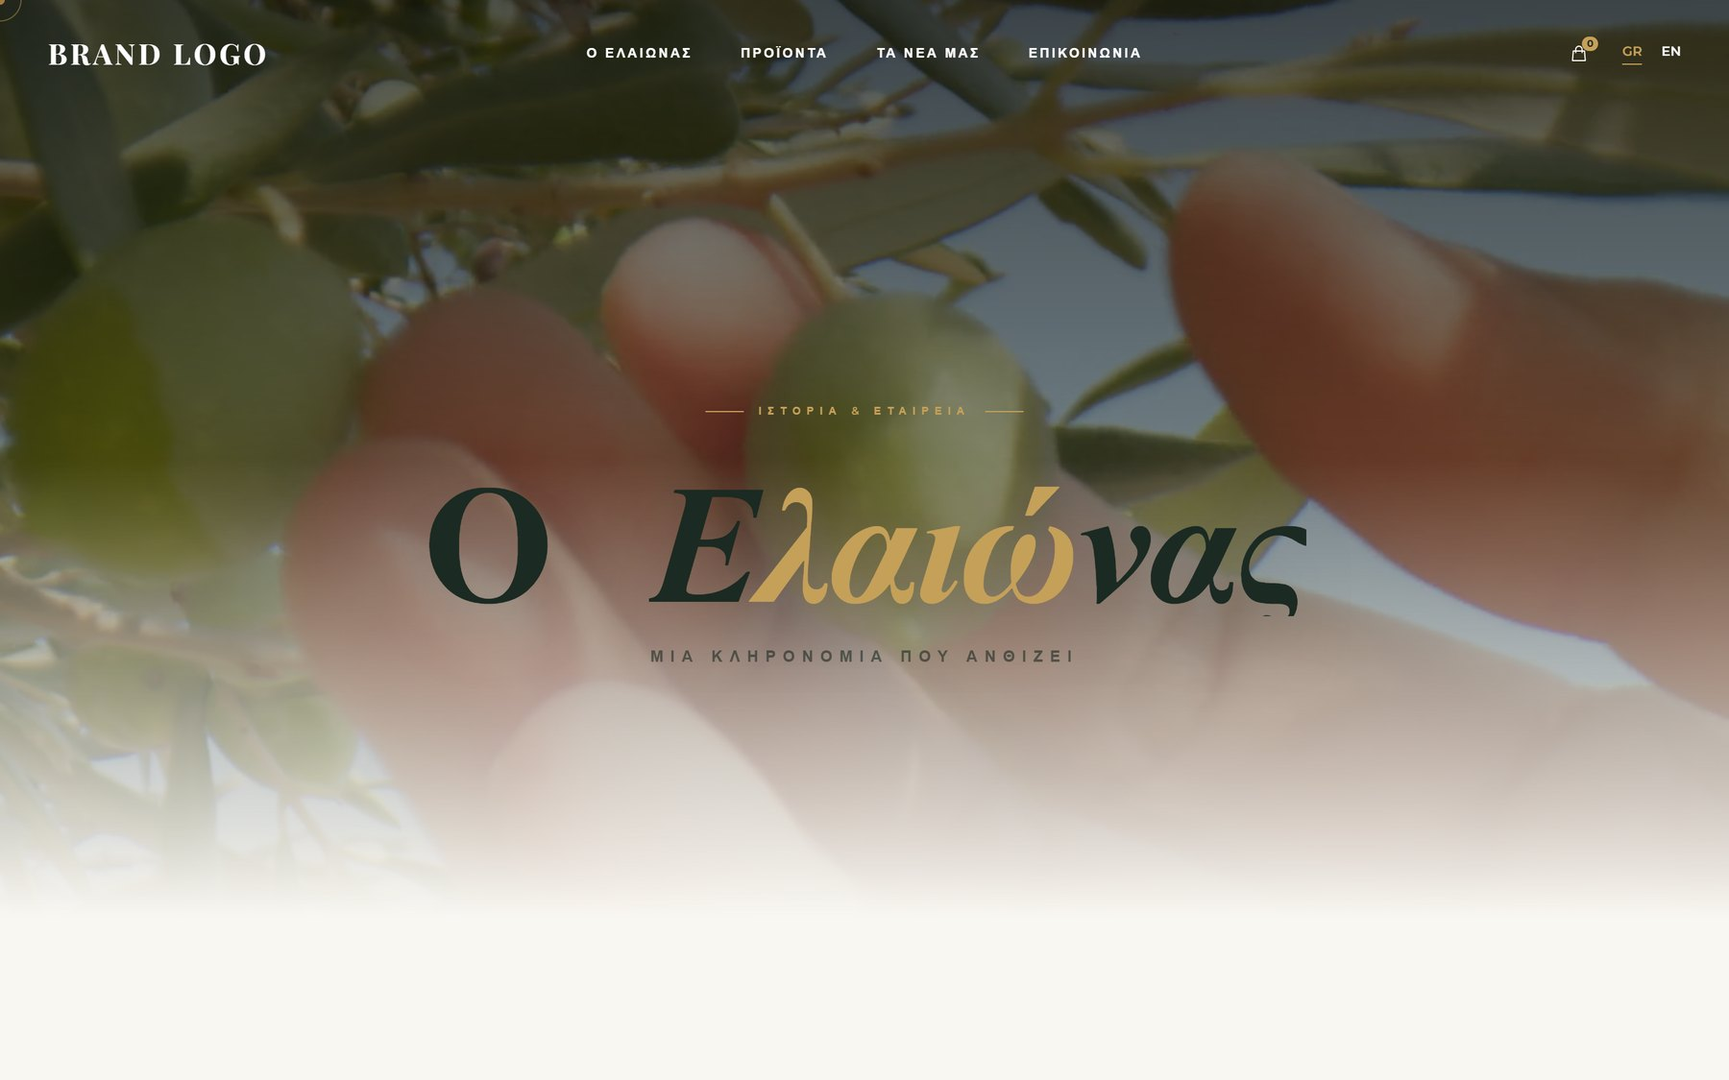
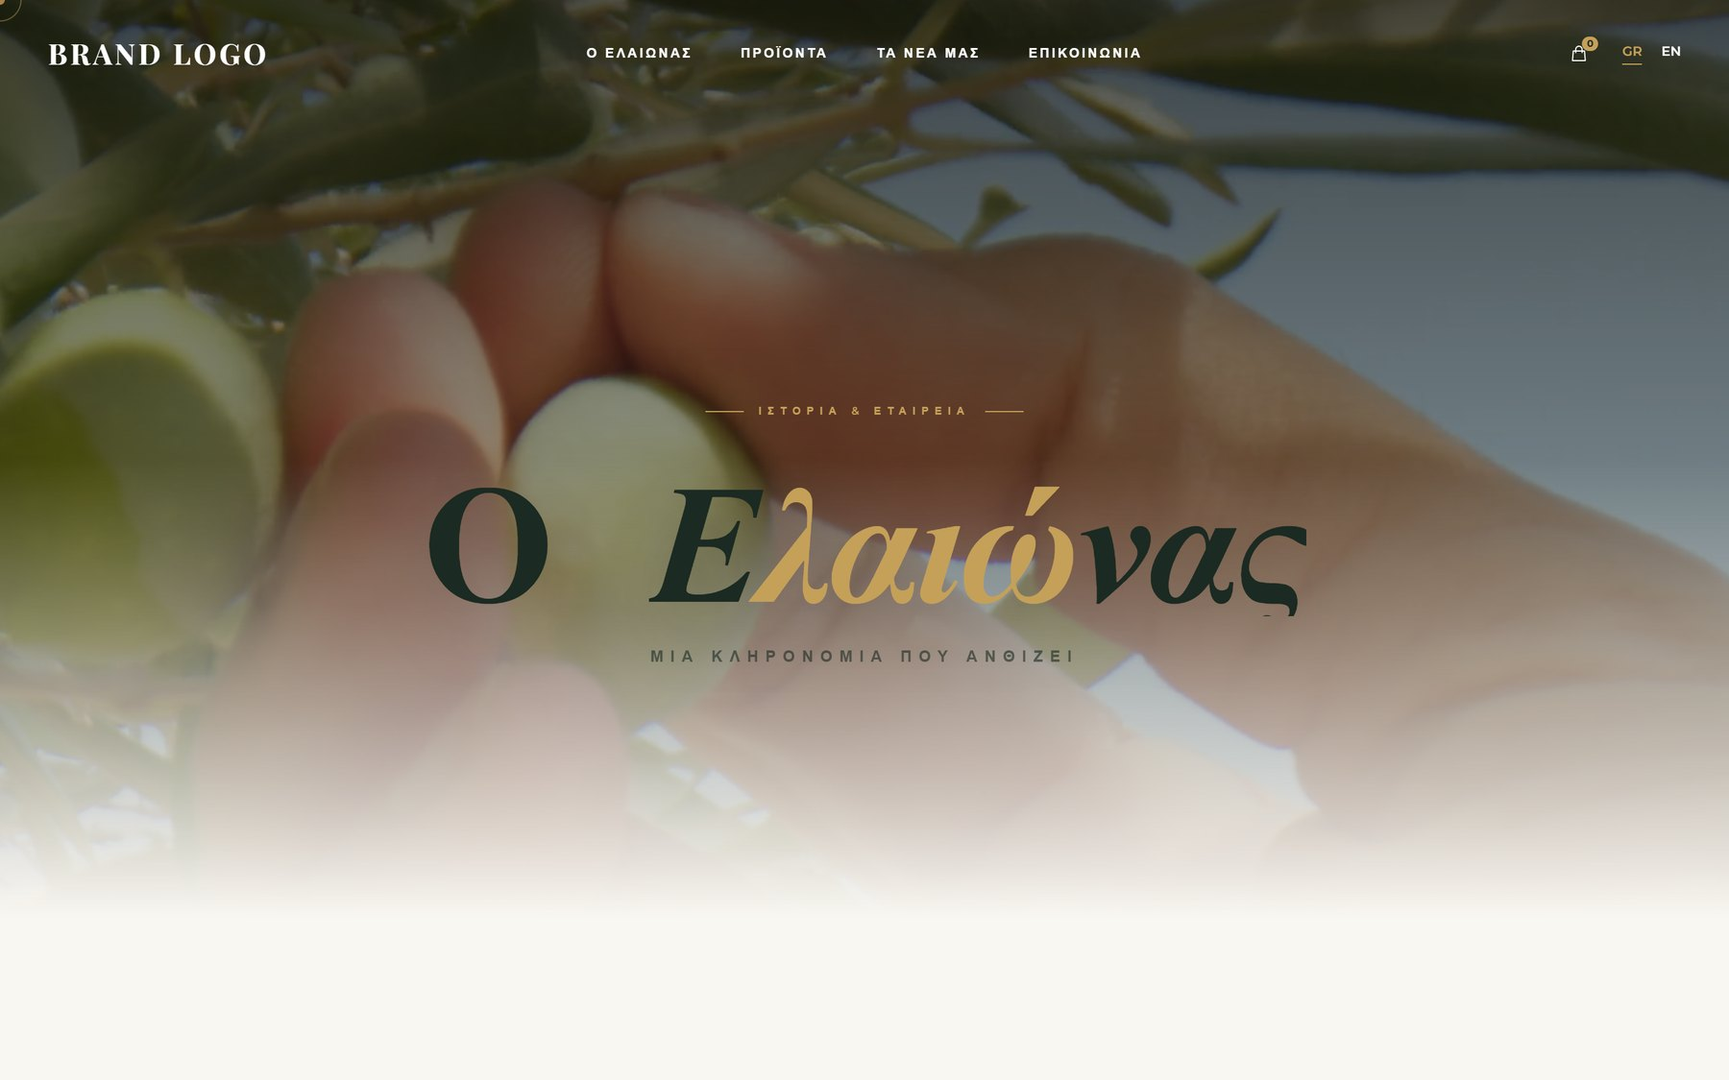
feat: όλες οι οθόνες κάθε project, και carousel με κλικ
Οι εικόνες ήταν αποσπασματικές — ένα παράθυρο ανά project, και σε δύο σημεία
κομμένα τμήματα. Τώρα κάθε project δείχνει ολόκληρες οθόνες:

- Expenses Predictor: και τα 5 παράθυρα
- Nutrition Tracker: και τα 6
- Oil Site: και οι 5 σελίδες
- ETL: ολόκληρος ο καμβάς της αναφοράς Power BI αντί για κομμένο γράφημα
- n8n: ο πραγματικός καμβάς του workflow ως εξώφυλλο

Νέο `components/carousel.tsx`, στην κάρτα κάθε project και στην πρώτη εικόνα
της σελίδας του. Κλικ στην εικόνα → επόμενη, με βέλη, κουκκίδες και μετρητή.
Κουτί 16:9 με object-contain ώστε να μην κόβεται ούτε να πηδάει τίποτα.
Στην κάρτα η εικόνα βγήκε από τον σύνδεσμο, αλλιώς ένα κλικ θα έκανε δύο
πράγματα· ο τίτλος παραμένει ο σύνδεσμος προς το project.

D9: στο Expenses Predictor καλύφθηκαν με CSS πριν τη λήψη οι περιγραφές, τα
ποσά, η κατηγορία τυχερών παιγνίων, η φωτογραφία προφίλ και η μπάρα
σελιδοδεικτών μέσα στο tutorial video. Στο Oil Site θολώνουν οι φιάλες, που
κουβαλούν το σήμα του πελάτη.

diff --git a/components/carousel.tsx b/components/carousel.tsx
@@ -1,0 +1,172 @@
+"use client";
+
+import { useCallback, useEffect, useRef, useState } from "react";
+import Image from "next/image";
+
+export type CarouselImage = { src: string; caption?: string };
+
+/**
+ * Εναλλαγή εικόνων με κλικ πάνω στην ίδια την εικόνα.
+ *
+ * Γιατί κλικ και όχι αυτόματη περιστροφή: η εικόνα ενός project δεν είναι
+ * διαφήμιση που πρέπει να τραβήξει το μάτι — είναι στοιχείο. Ο επισκέπτης
+ * προχωράει όταν έχει δει αρκετά, όχι όταν λήξει ένα χρονόμετρο. Και μια
+ * κινούμενη εικόνα δίπλα σε κείμενο απλώς εμποδίζει το διάβασμα.
+ *
+ * Με μία μόνο εικόνα δεν εμφανίζεται κανένα χειριστήριο: τα κουμπιά υπάρχουν
+ * μόνο όταν υπάρχει κάτι να δείξουν.
+ */
+export function Carousel({
+  images,
+  priority = false,
+  sizes,
+  showCaption = false,
+  label,
+}: {
+  images: CarouselImage[];
+  priority?: boolean;
+  sizes: string;
+  /** Δείχνει τη λεζάντα κάτω από την εικόνα — στη σελίδα του project, όχι στην κάρτα. */
+  showCaption?: boolean;
+  /** Προσβάσιμο όνομα της ομάδας, π.χ. ο τίτλος του project. */
+  label: string;
+}) {
+  const [index, setIndex] = useState(0);
+  const count = images.length;
+  const region = useRef<HTMLDivElement>(null);
+
+  const go = useCallback(
+    (delta: number) => {
+      setIndex((current) => (current + delta + count) % count);
+    },
+    [count],
+  );
+
+  // Τα βέλη του πληκτρολογίου δουλεύουν μόνο όσο η εστίαση είναι μέσα στο
+  // carousel — αλλιώς θα έκλεβαν το ← → από την υπόλοιπη σελίδα.
+  useEffect(() => {
+    const node = region.current;
+    if (!node || count < 2) return;
+
+    const onKey = (event: KeyboardEvent) => {
+      if (event.key === "ArrowLeft") {
+        event.preventDefault();
+        go(-1);
+      } else if (event.key === "ArrowRight") {
+        event.preventDefault();
+        go(1);
+      }
+    };
+
+    node.addEventListener("keydown", onKey);
+    return () => node.removeEventListener("keydown", onKey);
+  }, [count, go]);
+
+  if (count === 0) return null;
+
+  const current = images[index];
+  const single = count < 2;
+
+  return (
+    <figure className="space-y-3">
+      <div
+        ref={region}
+        role="group"
+        aria-roledescription="carousel"
+        aria-label={label}
+        className="group/carousel relative aspect-[16/9] overflow-hidden rounded-lg border border-[var(--line)] bg-[var(--surface)]"
+      >
+        {/*
+          Σταθερό κουτί 16:9 και `object-contain`: οι οθόνες που τραβήχτηκαν δεν
+          έχουν όλες την ίδια αναλογία — ένα φύλλο Excel είναι σχεδόν τετράγωνο,
+          ένα dashboard πλατύ. Με `cover` θα κόβαμε το μισό· με σταθερό ύψος δεν
+          πηδάει η σελίδα σε κάθε κλικ. Ό,τι περισσεύει γίνεται κενό, όχι ψαλίδι.
+        */}
+        {images.map((image, i) => (
+          <Image
+            key={image.src}
+            src={image.src}
+            alt={i === index ? (image.caption ?? "") : ""}
+            width={1200}
+            height={675}
+            priority={priority && i === 0}
+            sizes={sizes}
+            aria-hidden={i === index ? undefined : true}
+            className="absolute inset-0 h-full w-full object-contain transition-opacity duration-300"
+            style={{ opacity: i === index ? 1 : 0 }}
+          />
+        ))}
+
+        {!single && (
+          <>
+            {/* Το κλικ πάνω στην εικόνα πάει στην επόμενη — το προφανές. */}
+            <button
+              type="button"
+              onClick={() => go(1)}
+              className="absolute inset-0 cursor-pointer"
+            >
+              <span className="sr-only">
+                {label} — {index + 1} / {count}
+              </span>
+            </button>
+
+            <Arrow side="left" onClick={() => go(-1)} label={label} />
+            <Arrow side="right" onClick={() => go(1)} label={label} />
+
+            <div className="pointer-events-none absolute inset-x-0 bottom-0 flex items-center justify-between p-3">
+              <span className="flex gap-1.5">
+                {images.map((image, i) => (
+                  <span
+                    key={image.src}
+                    aria-hidden="true"
+                    className={`h-1.5 w-1.5 rounded-full transition-colors ${
+                      i === index ? "bg-white" : "bg-white/35"
+                    }`}
+                  />
+                ))}
+              </span>
+              <span className="rounded bg-black/45 px-1.5 py-0.5 font-mono text-[10px] text-white/80 tabular-nums">
+                {index + 1}/{count}
+              </span>
+            </div>
+          </>
+        )}
+      </div>
+
+      {showCaption && current.caption && (
+        <figcaption
+          aria-live="polite"
+          className="text-sm text-[var(--muted)]"
+        >
+          {current.caption}
+        </figcaption>
+      )}
+    </figure>
+  );
+}
+
+function Arrow({
+  side,
+  onClick,
+  label,
+}: {
+  side: "left" | "right";
+  onClick: () => void;
+  label: string;
+}) {
+  return (
+    <button
+      type="button"
+      onClick={onClick}
+      aria-label={`${label}: ${side === "left" ? "←" : "→"}`}
+      // Σε οθόνη αφής δεν υπάρχει hover: εκεί τα βέλη μένουν μόνιμα ορατά.
+      className={`absolute top-1/2 -translate-y-1/2 rounded-full bg-black/45 p-2 text-white opacity-100 transition-opacity sm:opacity-0 sm:group-hover/carousel:opacity-100 focus-visible:opacity-100 ${
+        side === "left" ? "left-2" : "right-2"
+      }`}
+    >
+      <span aria-hidden="true" className="block h-4 w-4 leading-4">
+        {side === "left" ? "‹" : "›"}
+      </span>
+    </button>
+  );
+}

diff --git a/components/project-explorer.tsx b/components/project-explorer.tsx
@@ -1,7 +1,7 @@
 "use client";
 
 import { useEffect, useMemo, useRef, useState } from "react";
-import Image from "next/image";
+import { Carousel } from "@/components/carousel";
 import Link from "next/link";
 import { usePathname, useRouter, useSearchParams } from "next/navigation";
 import {
@@ -191,37 +191,40 @@ export function ProjectExplorer({
       ) : (
         <ul className="space-y-16">
           {visible.map((project) => (
-            <li key={project.slug}>
-              <Link
-                href={`/${locale}/projects/${project.slug}`}
-                className="group grid gap-6 sm:grid-cols-[1fr_1.2fr] sm:items-center"
-              >
-                <div className="overflow-hidden rounded-lg border border-[var(--line)] bg-[var(--surface)]">
-                  <Image
-                    src={project.cover}
-                    alt=""
-                    width={1200}
-                    height={675}
-                    className="h-auto w-full transition-transform duration-500 group-hover:scale-[1.02]"
-                    sizes="(max-width: 40rem) 100vw, 24rem"
-                  />
-                </div>
+            <li
+              key={project.slug}
+              className="grid gap-6 sm:grid-cols-[1fr_1.2fr] sm:items-center"
+            >
+              {/*
+                Η εικόνα δεν είναι πια μέσα στον σύνδεσμο: το κλικ πάνω της
+                αλλάζει εικόνα. Στο project πάει ο τίτλος, που είναι και ο
+                προορισμός που περιμένει ο screen reader.
+              */}
+              <Carousel
+                images={project.images}
+                sizes="(max-width: 40rem) 100vw, 24rem"
+                label={project.title}
+              />
 
-                <div className="space-y-3">
-                  <div className="flex flex-wrap items-baseline gap-x-4 gap-y-1">
-                    <h2 className="text-3xl group-hover:underline group-hover:underline-offset-4">
+              <div className="space-y-3">
+                <div className="flex flex-wrap items-baseline gap-x-4 gap-y-1">
+                  <h2 className="text-3xl">
+                    <Link
+                      href={`/${locale}/projects/${project.slug}`}
+                      className="underline-offset-4 hover:underline"
+                    >
                       {project.title}
-                    </h2>
-                    <span className="font-mono text-xs text-[var(--faint)]">
-                      {project.year} · {labels.status[project.status]}
-                    </span>
-                  </div>
-                  <p className="text-[var(--muted)]">{project.summary}</p>
-                  <p className="font-mono text-xs text-[var(--faint)]">
-                    {project.stack.join("  ·  ")}
-                  </p>
+                    </Link>
+                  </h2>
+                  <span className="font-mono text-xs text-[var(--faint)]">
+                    {project.year} · {labels.status[project.status]}
+                  </span>
                 </div>
-              </Link>
+                <p className="text-[var(--muted)]">{project.summary}</p>
+                <p className="font-mono text-xs text-[var(--faint)]">
+                  {project.stack.join("  ·  ")}
+                </p>
+              </div>
             </li>
           ))}
         </ul>

diff --git a/app/[locale]/projects/[slug]/page.tsx b/app/[locale]/projects/[slug]/page.tsx
@@ -1,5 +1,4 @@
 import type { Metadata } from "next";
-import Image from "next/image";
 import Link from "next/link";
 import { notFound } from "next/navigation";
 import { MDXRemote } from "next-mdx-remote/rsc";
@@ -11,6 +10,7 @@ import {
 } from "@/lib/content/projects";
 import { StackDiagram } from "@/components/stack-diagram";
 import { Gallery } from "@/components/gallery";
+import { Carousel } from "@/components/carousel";
 
 type Params = Promise<{ locale: string; slug: string }>;
 
@@ -107,17 +107,21 @@ export default async function ProjectPage({ params }: { params: Params }) {
         </p>
       )}
 
-      <div className="overflow-hidden rounded-lg border border-[var(--line)] bg-[var(--surface)]">
-        <Image
-          src={project.cover}
-          alt=""
-          width={1200}
-          height={675}
-          priority
-          className="h-auto w-full"
-          sizes="(max-width: 64rem) 100vw, 64rem"
-        />
-      </div>
+      {/*
+        Το εξώφυλλο είναι η αρχή ενός carousel με όλες τις οθόνες του project:
+        ο επισκέπτης βλέπει τι είναι το πράγμα χωρίς να κατέβει μέχρι κάτω.
+        Οι ίδιες εικόνες επανέρχονται πιο κάτω σε πλήρες μέγεθος, με λεζάντα.
+      */}
+      <Carousel
+        images={[
+          { src: project.cover, caption: project.summary },
+          ...project.gallery,
+        ]}
+        priority
+        showCaption
+        sizes="(max-width: 64rem) 100vw, 64rem"
+        label={project.title}
+      />
 
       {/* Πρόβλημα → στόχος → λύση → αποτέλεσμα: η αφήγηση με μια ματιά (D15). */}
       <section className="grid gap-x-10 gap-y-8 sm:grid-cols-2 lg:grid-cols-4">

diff --git a/lib/content/filter.ts b/lib/content/filter.ts
@@ -17,6 +17,11 @@ export type ProjectCard = {
   stack: string[];
   role: string;
   cover: string;
+  /**
+   * Όλες οι εικόνες του project — εξώφυλλο πρώτο. Η κάρτα τις εναλλάσσει με
+   * κλικ, οπότε χρειάζεται τη λίστα και όχι μόνο την πρώτη.
+   */
+  images: { src: string; caption?: string }[];
 };
 
 export type Filters = {

diff --git a/app/[locale]/projects/page.tsx b/app/[locale]/projects/page.tsx
@@ -48,6 +48,10 @@ export default async function ProjectsPage({
     stack: p.stack,
     role: p.role,
     cover: p.cover,
+    images: [
+      { src: p.cover },
+      ...p.gallery.map((g) => ({ src: g.src, caption: g.caption })),
+    ],
   }));
 
   return (

diff --git a/docs/ROADMAP.md b/docs/ROADMAP.md
@@ -267,6 +267,44 @@
 φαρμακείο, ποσά και υπόλοιπα. Ο χρήστης ενημερώθηκε και **αποφάσισε να μείνει ως
 έχει** (21 Σεπ 2026), οπότε τα screenshots δείχνουν πραγματικά νούμερα.
 
+## Φάση 6δ — Όλες οι οθόνες, και carousel ✅
+Κάθε project δείχνει πλέον ολόκληρες οθόνες, όχι κομμένα τμήματα, και οι εικόνες
+εναλλάσσονται με κλικ.
+
+- [x] **Expenses Predictor** — και τα 5 παράθυρα (Home, Data, Balance, Stats, Forecast)
+- [x] **Nutrition Tracker** — και τα 6 (Αρχική, Τροφές, Συνταγές, Ημερολόγιο, Στατιστικά, Πλάνο)
+- [x] **Oil Site** — και οι 5 σελίδες, με τις φιάλες θολωμένες (D9 — κουβαλούν το wordmark)
+- [x] **n8n** — ο πραγματικός καμβάς ως εξώφυλλο, με το στάδιο αξιολόγησης σε κοντινό
+- [x] **ETL** — ολόκληρος ο καμβάς της αναφοράς Power BI αντί για κομμένο γράφημα
+- [x] `components/carousel.tsx` — στην κάρτα κάθε project **και** στην πρώτη
+      εικόνα της σελίδας του
+- **35 εικόνες συνολικά**, 11 MB
+
+**Αποφάσεις του carousel**
+- Το κλικ πάνω στην εικόνα πάει στην επόμενη· βέλη, κουκκίδες και μετρητής `ν/Ν`.
+- Καμία αυτόματη περιστροφή: μια εικόνα που κινείται μόνη της δίπλα σε κείμενο
+  εμποδίζει το διάβασμα, και το στοιχείο δεν είναι διαφήμιση.
+- Σταθερό κουτί **16:9 με `object-contain`**: οι οθόνες δεν έχουν όλες την ίδια
+  αναλογία (το φύλλο Excel είναι σχεδόν τετράγωνο). Με `cover` θα κόβαμε το μισό,
+  με ελεύθερο ύψος θα πηδούσε η σελίδα σε κάθε κλικ.
+- Στην κάρτα, η εικόνα **βγήκε από τον σύνδεσμο**: το κλικ αλλάζει εικόνα, ο
+  τίτλος πάει στο project. Αλλιώς το ένα κλικ θα έκανε δύο πράγματα.
+- Τα βέλη πιάνουν `←` `→` μόνο όσο η εστίαση είναι μέσα στο carousel, και σε
+  οθόνη αφής μένουν μόνιμα ορατά αφού δεν υπάρχει hover.
+
+**D9 στα νέα στιγμιότυπα**
+- Expenses Predictor: καλύφθηκαν περιγραφές, ποσά, η κατηγορία των τυχερών
+  παιγνίων και η φωτογραφία προφίλ — με CSS πριν τη λήψη, όχι επεξεργασία μετά.
+  Καλύφθηκε επίσης η μπάρα σελιδοδεικτών που φαίνεται μέσα στο tutorial video.
+- Oil Site: οι φιάλες στη σελίδα προϊόντων θολώνουν· οι ετικέτες είναι το σήμα
+  του πελάτη.
+
+**Σφάλματα των ίδιων των εφαρμογών** — δεν διορθώθηκαν, είναι άλλα repos:
+- Expenses Predictor: τα γραφήματα δεν σχεδιάζονται σε *Stats*, *Balance* και
+  *Forecast*. Το `ResponsiveContainer` μετρά **452×477** ενώ το κουτί είναι ~1700
+  πλάτος, οπότε η σειρά δεδομένων υπάρχει αλλά ζωγραφίζεται εκτός πεδίου.
+- NutriDash: ανεστραμμένος κάθετος άξονας στο «Ημερήσια πρόσληψη».
+
 ## Φάση 7 — Polish & go-live
 - [ ] SEO: metadata ανά σελίδα, sitemap.xml, robots.txt, `hreflang` για τις 2 γλώσσες
 - [ ] OG images — παραγόμενες δυναμικά ανά project
